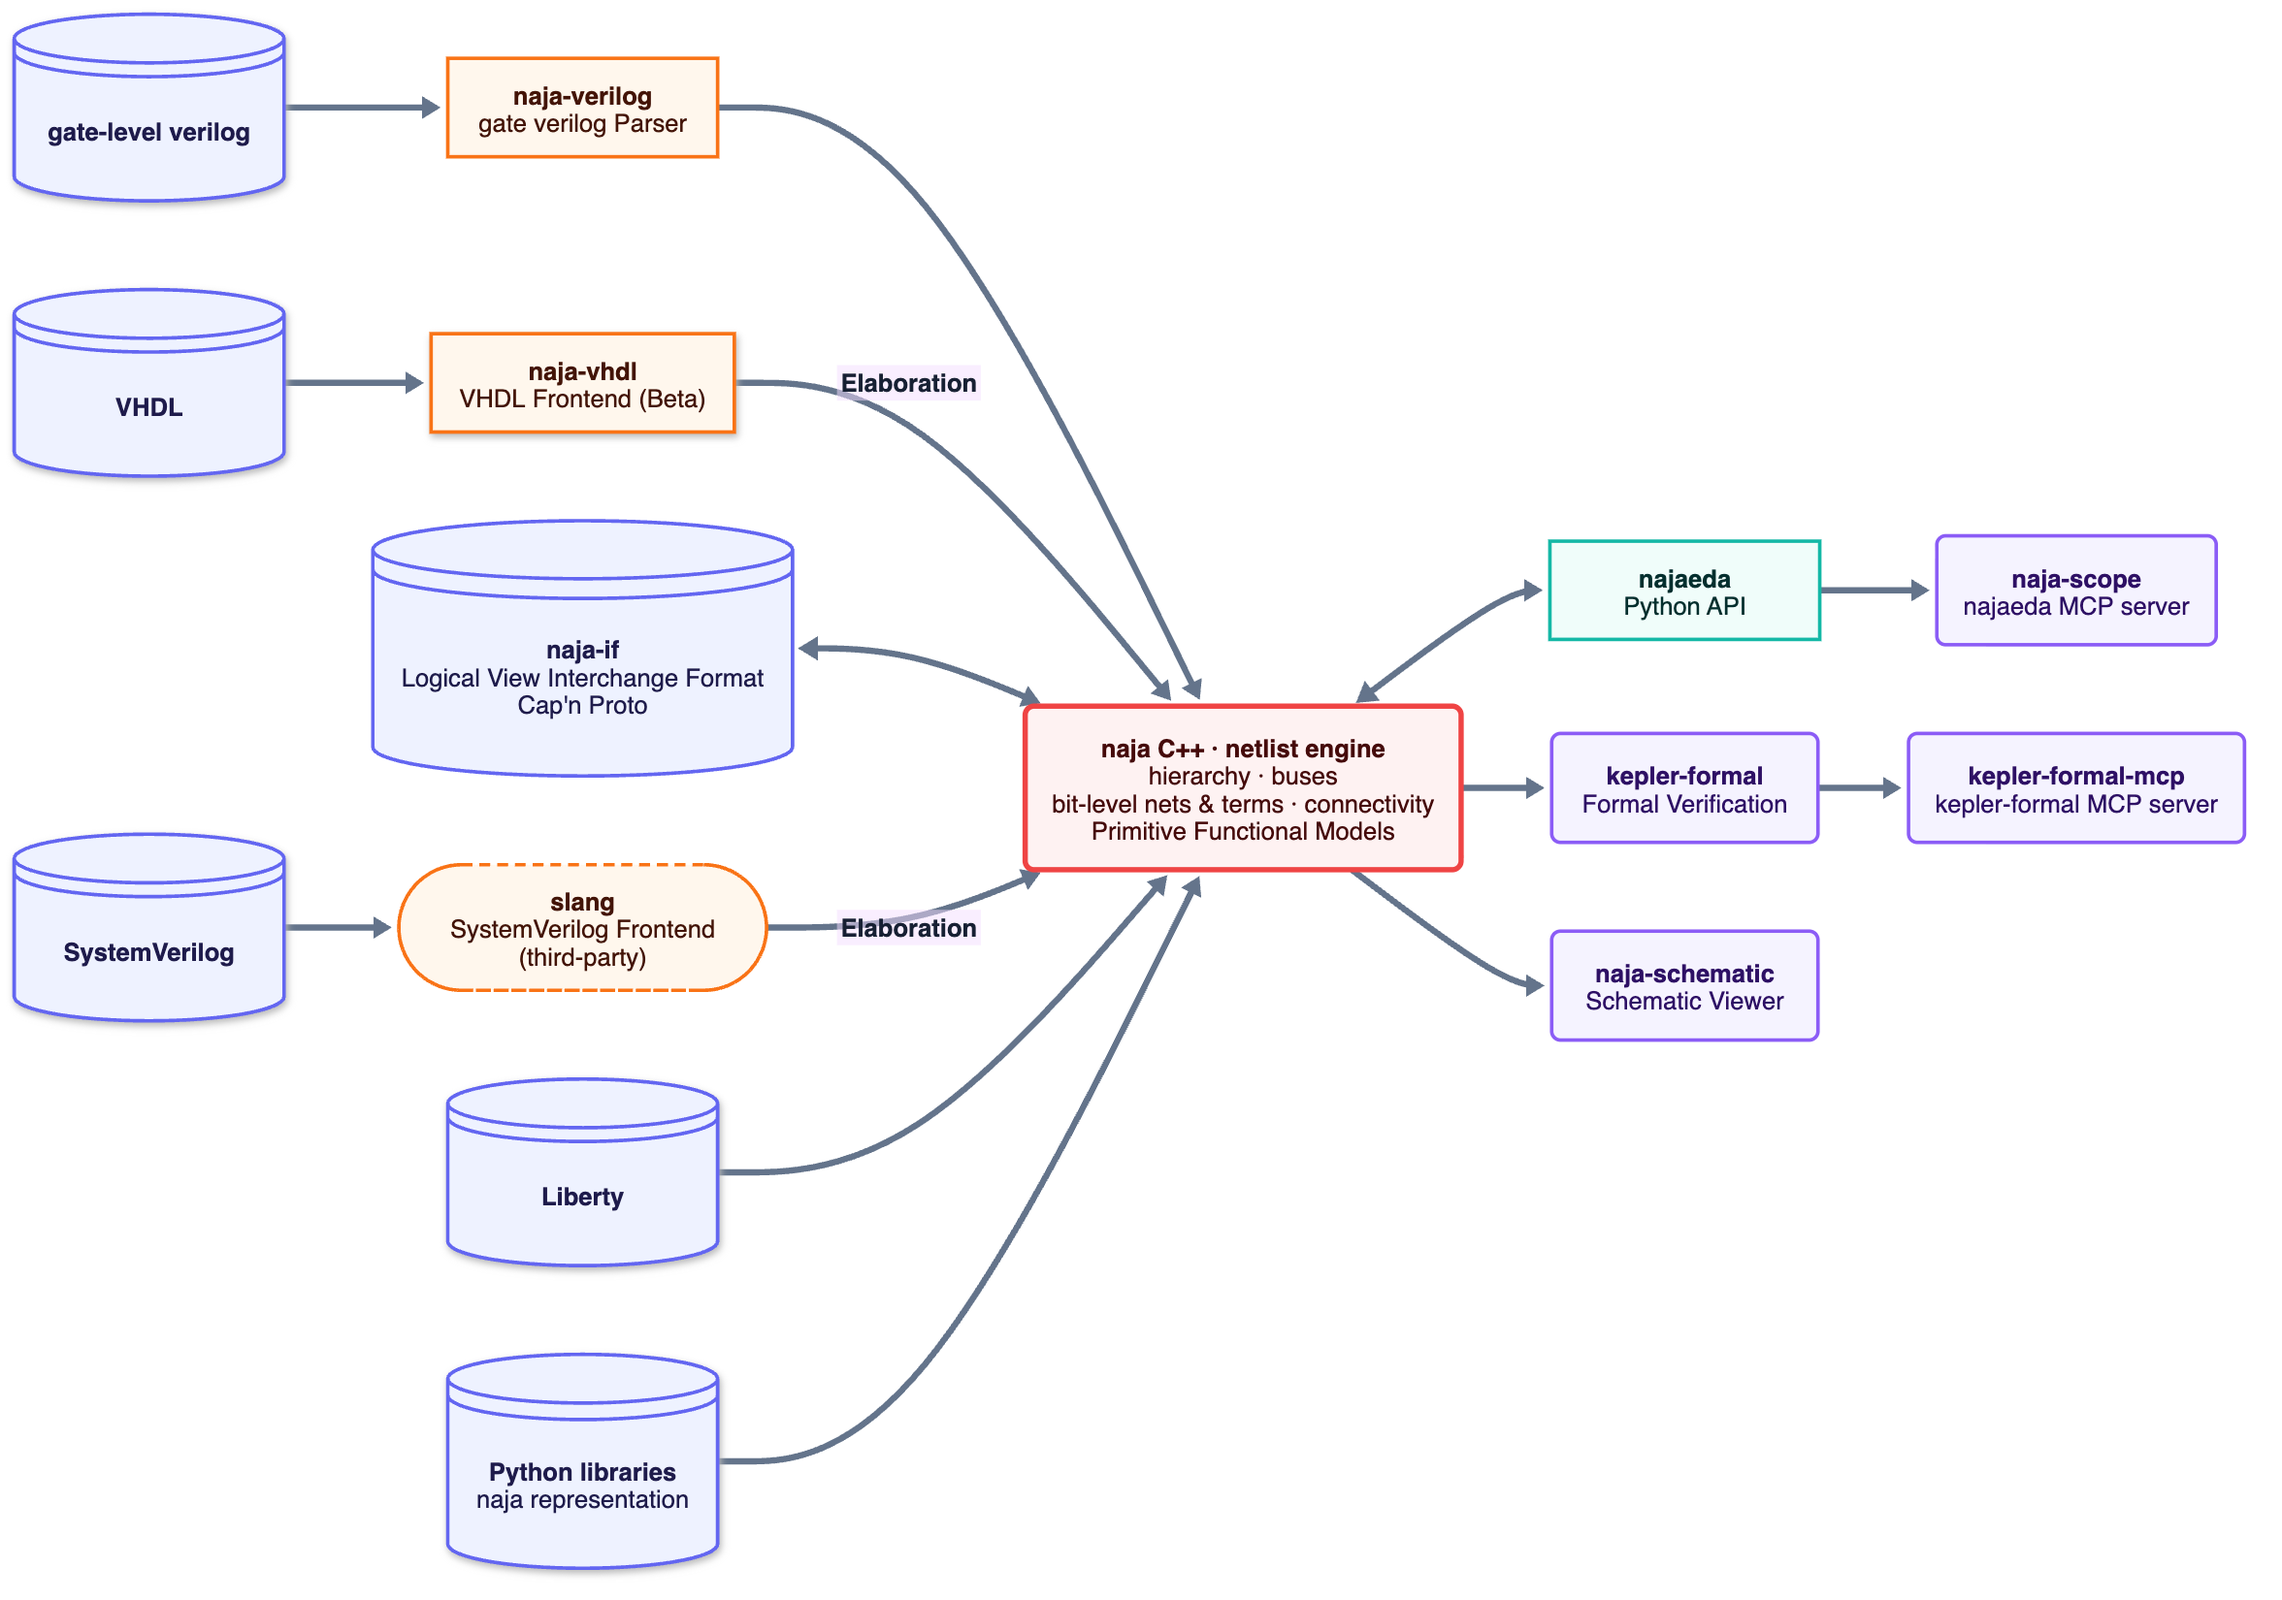
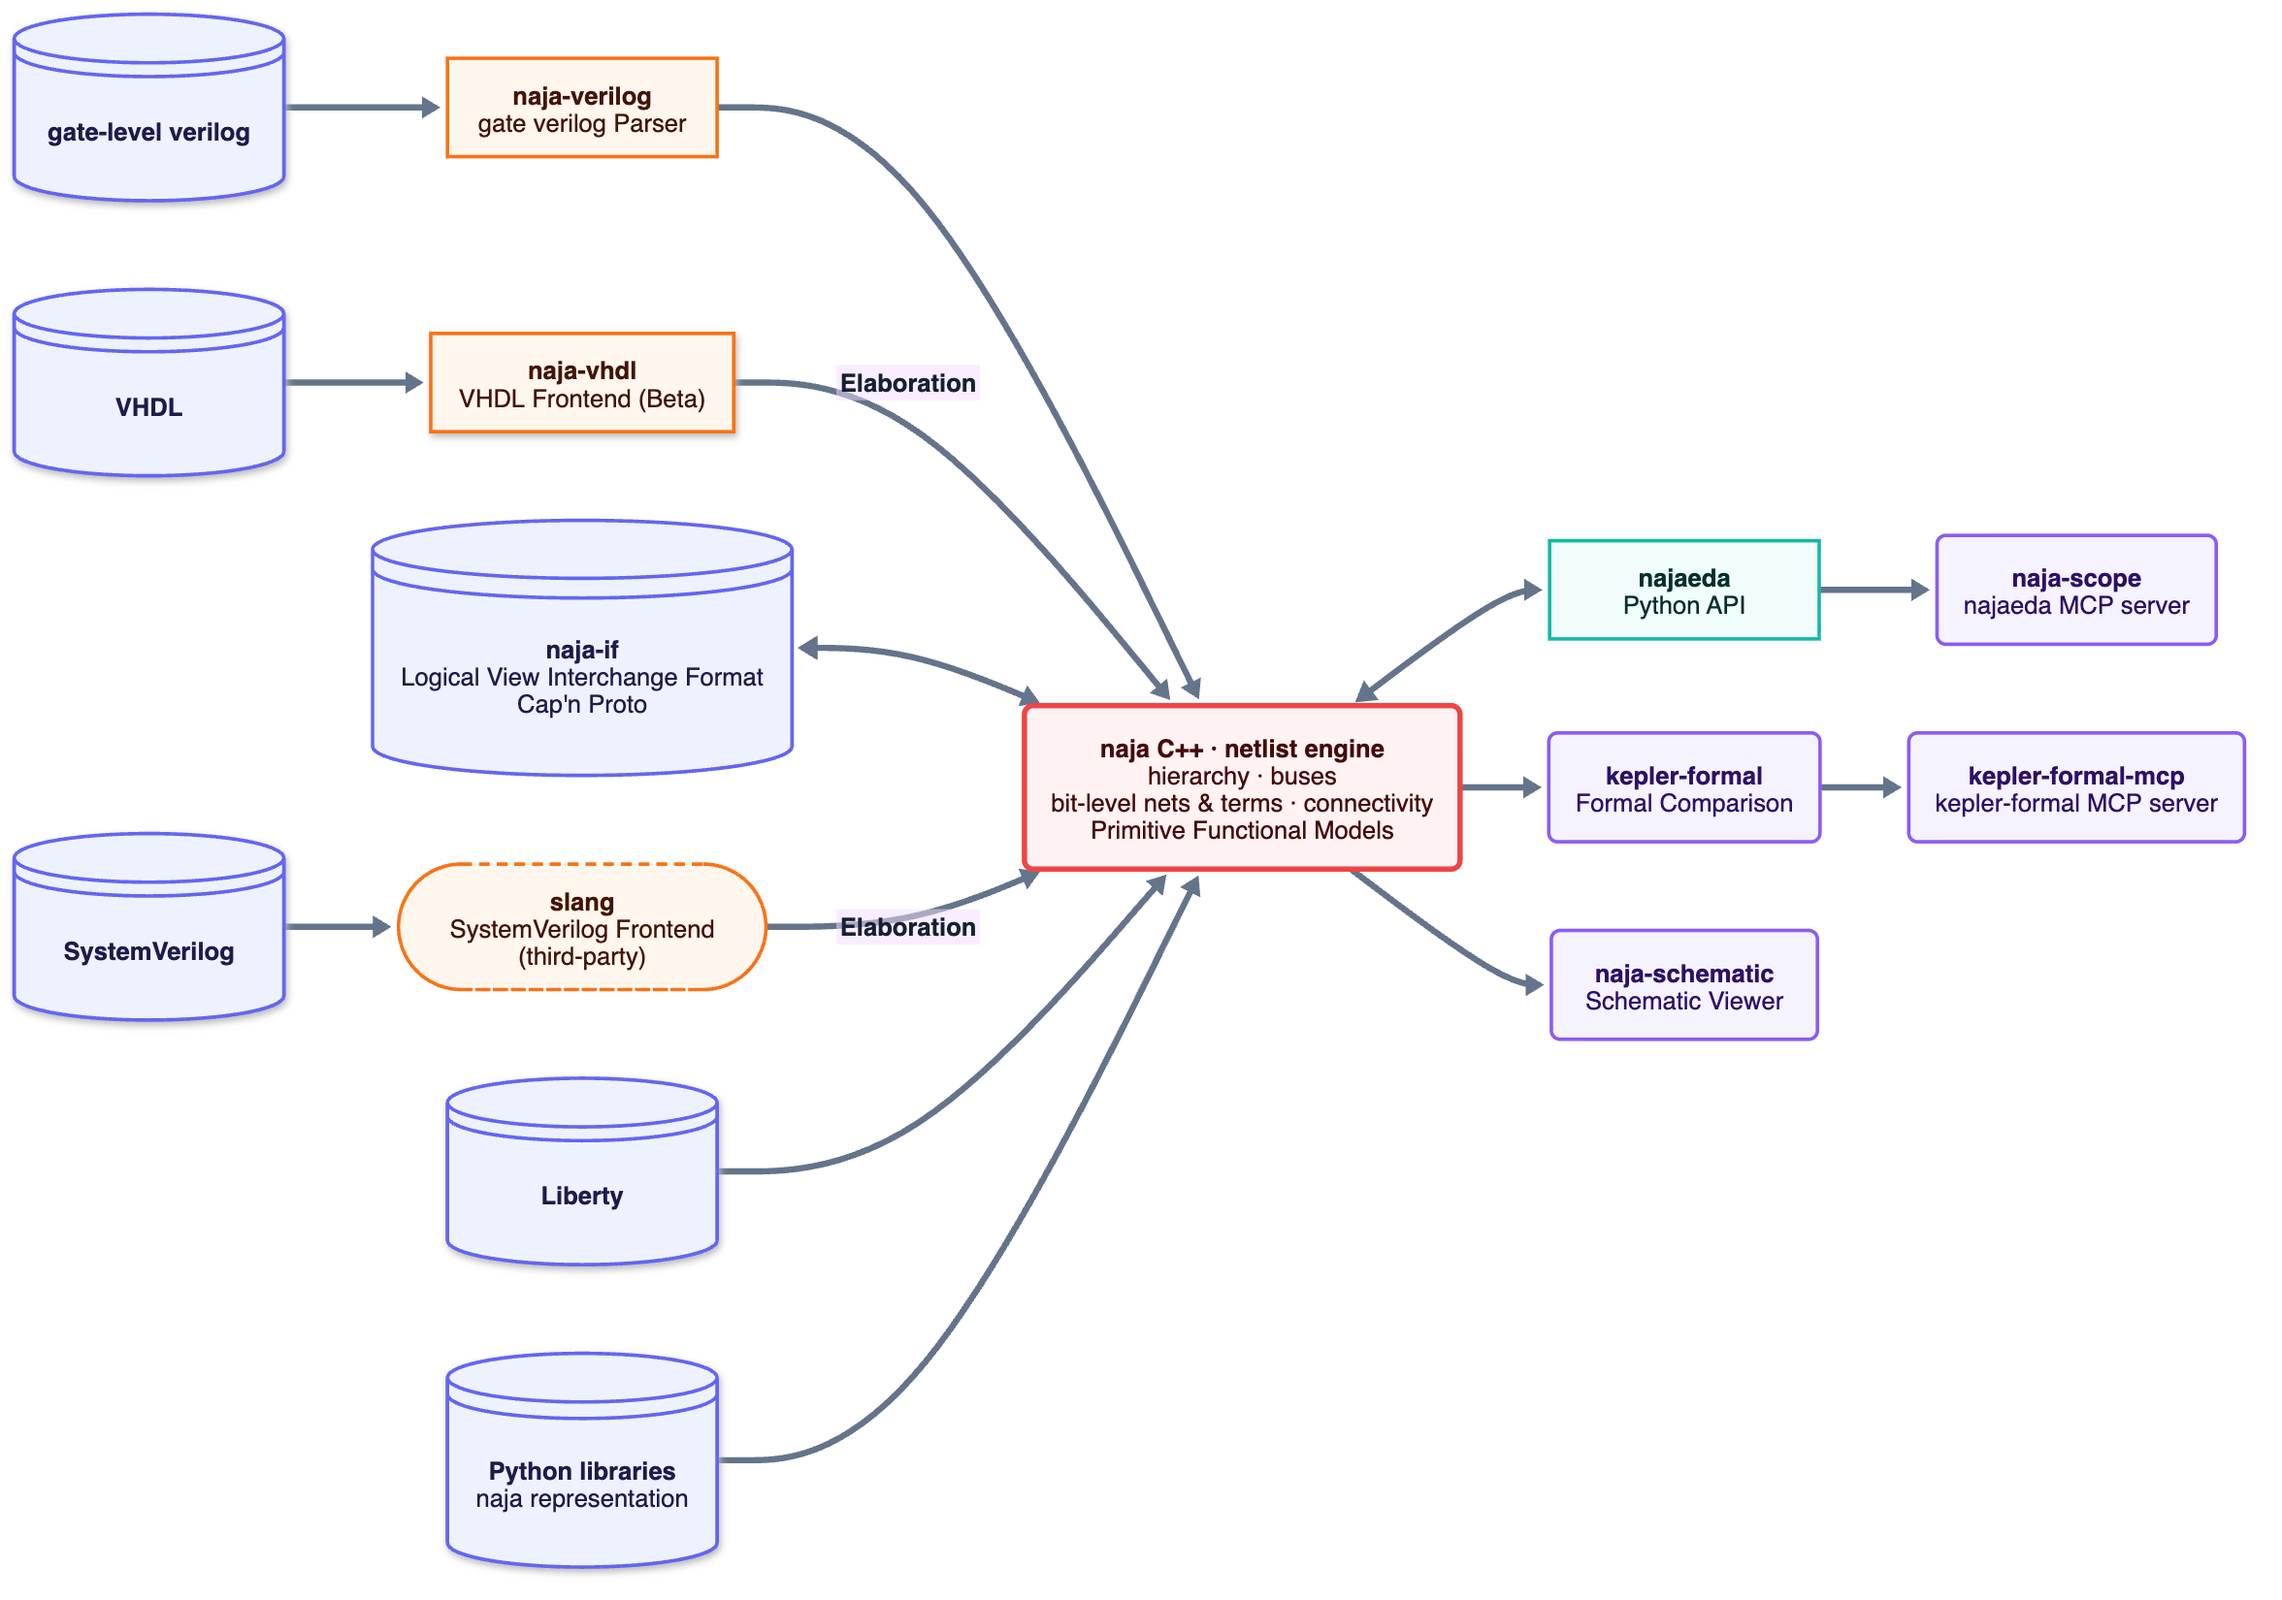
cleaning again

diff --git a/README.md b/README.md
@@ -57,7 +57,7 @@ integrate around Naja's C++ netlist engine:
 </p>
 
 <details>
-<summary>View interactive diagram (desktop browser recommended; may not render in the GitHub iPhone app)</summary>
+<summary>View interactive diagram — desktop browser</summary>
 
 **GitHub iPhone app:** If this diagram does not render, use the PNG above or open this page in a desktop browser.
 
@@ -75,7 +75,7 @@ config:
     clusterBorder: '#cbd5e1'
 ---
 flowchart LR
-    sv["`**SystemVerilog**`"] ==> slang(["`**slang**<br>SystemVerilog Frontend`"])
+    sv["`**SystemVerilog**`"] ==> slang(["`**slang**<br>SystemVerilog Frontend<br>(third-party)`"])
     vhdl["`**VHDL**`"] ==> naja-vhdl["`**naja-vhdl**<br> VHDL Frontend (Beta)`"]
     verilog["`**gate-level verilog**`"] ==> naja-verilog["`**naja-verilog**<br>gate verilog Parser`"]
     naja-verilog ==> naja["`**naja C++ · netlist engine**<br><br>hierarchy · buses<br>bit-level nets &amp; terms · connectivity<br>Primitive Functional Models`"]
